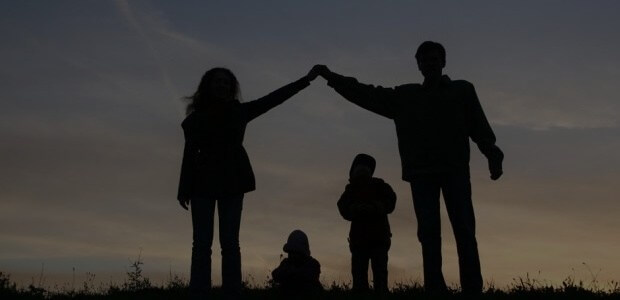
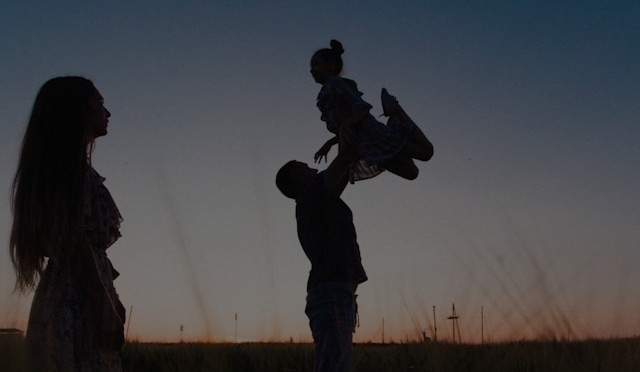
Add Responsiveness

diff --git a/css/layout/responsive.css b/css/layout/responsive.css
@@ -1,0 +1,91 @@
+@media (max-width: 1024px) {
+  .carousel-caption {
+    top: 40%;
+  }
+}
+@media (max-width: 900px) {
+  .nav__links {
+    opacity: 0;
+    align-items: center;
+    justify-content: center;
+    gap: var(--spacing-lg);
+    background-color: var(--color-light-blue);
+    position: absolute;
+    top: 100%;
+    left: 0;
+    width: 100%;
+    padding: var(--spacing-lg);
+    transition: max-height 0.4s ease, opacity 0.3s ease, padding 0.3s ease;
+  }
+
+  .nav__links.nav__links-active {
+    display: flex;
+    max-height: 12rem;
+    padding: var(--spacing-lg);
+    opacity: 1;
+  }
+
+  .burger-menu {
+    display: block;
+    cursor: pointer;
+    z-index: 100;
+  }
+  .nav__links .nav__link {
+    color: var(--color-primary);
+  }
+}
+
+@media (max-width: 768px) {
+  .carousel-caption h1 {
+    font-size: var(--font-size-xxl);
+  }
+  .blue-button {
+    font-size: var(--font-size-md);
+  }
+}
+@media (max-width: 540px) {
+  .header {
+    justify-content: space-between;
+    padding: var(--spacing-lg);
+  }
+  .header__logo {
+    display: none;
+  }
+  .header__features {
+    display: flex;
+    align-items: center;
+    flex: 1;
+    justify-content: flex-start;
+  }
+
+  .header__search {
+    display: flex;
+    align-items: center;
+    justify-content: flex-start;
+    width: 100%;
+  }
+
+  .header__search-input {
+    width: 100%;
+  }
+  .carousel-caption h1 {
+    font-size: var(--font-size-xl);
+  }
+  .carousel-caption p {
+    font-size: var(--font-size-lg);
+  }
+  .footer__input {
+    width: 20rem;
+  }
+}
+@media (max-width: 420px) {
+  .footer__form {
+    flex-direction: column;
+
+    gap: var(--spacing-xl);
+  }
+  .footer__input,
+  .footer__button {
+    width: 100%;
+  }
+}

diff --git a/index.html b/index.html
@@ -63,6 +63,7 @@
           </button>
         </div>
       </div>
+      <i class="fa-solid fa-bars burger-menu"></i>
     </header>
 
     <main class="main-container">
@@ -398,7 +399,11 @@
               <p class="event-card__desc">
                 Respectful techniques to guide toddler behavior with confidence.
               </p>
-              <button type="button" class="blue-button">Read more</button>
+              <div class="event-card-more-btn">
+                <a href="#"
+                  >Read more <i class="fa-solid fa-arrow-right"></i>
+                </a>
+              </div>
             </div>
           </div>
 
@@ -421,7 +426,11 @@
                 Engaging sensory activities that boost motor and cognitive
                 skills.
               </p>
-              <button type="button" class="blue-button">Read more</button>
+              <div class="event-card-more-btn">
+                <a href="#"
+                  >Read more <i class="fa-solid fa-arrow-right"></i>
+                </a>
+              </div>
             </div>
           </div>
 
@@ -444,7 +453,11 @@
               <p class="event-card__desc">
                 How to emotionally and socially prepare toddlers for preschool.
               </p>
-              <button type="button" class="blue-button">Read more</button>
+              <div class="event-card-more-btn">
+                <a href="#"
+                  >Read more <i class="fa-solid fa-arrow-right"></i>
+                </a>
+              </div>
             </div>
           </div>
         </div>

diff --git a/css/layout/header.css b/css/layout/header.css
@@ -23,19 +23,14 @@
   cursor: pointer;
 }
 
-.header__features {
-  display: flex;
-  justify-content: space-around;
-  align-items: center;
-  gap: var(--spacing-lg);
-}
-
 .header__search {
   position: relative;
   width: 100%;
-  max-width: 20rem;
-  font-size: var(--font-size-lg);
+  max-width: 16rem;
+  font-size: var(--font-size-md);
   font-style: italic;
+  border: 2px solid var(--color-primary);
+  border-radius: var(--radius-sm);
 }
 
 .header__search-input {
@@ -46,11 +41,13 @@
   border-radius: var(--radius-sm);
   color: var(--color-primary);
   font-style: italic;
+  font-weight: var(--font-weight-medium);
 }
 
 .header__search-input::placeholder {
   color: var(--color-primary);
   font-style: italic;
+  font-weight: var(--font-weight-medium);
 }
 
 .header__search-input:focus {
@@ -80,6 +77,7 @@
   align-items: center;
   gap: var(--spacing-lg);
   list-style: none;
+  text-decoration: none;
 }
 
 .nav__link {
@@ -95,4 +93,8 @@
 .nav__link:hover {
   transform: scale(1.05);
   font-weight: var(--font-weight-bold);
+}
+.burger-menu {
+  font-size: var(--font-size-xxx);
+  display: none;
 }

diff --git a/js/header.js b/js/header.js
@@ -1,17 +1,24 @@
 export const scrollHeader = () => {
   const header = document.querySelector(".header");
   const headerText = header.querySelectorAll(".nav__link");
+  const burgerMenu = document.querySelector(".burger-menu");
 
   const changeBackground = () => {
     if (window.scrollY > 80) {
       header.style.backgroundColor = "#d1ecfe";
       headerText.forEach((element) => {
         element.style.color = "#0d6efd";
+        if (burgerMenu) {
+          burgerMenu.style.color = "#0d6efd";
+        }
       });
     } else {
       header.style.backgroundColor = "#0d6efd";
       headerText.forEach((element) => {
         element.style.color = "#ffffff";
+        if (burgerMenu) {
+          burgerMenu.style.color = "#ffffff";
+        }
       });
     }
   };

diff --git a/css/layout/events.css b/css/layout/events.css
@@ -23,7 +23,9 @@
   border-radius: var(--radius-sm);
   object-fit: cover;
 }
-
+.event-card-more-btn {
+  font-size: var(--font-size-lg);
+}
 .event-card__content {
   display: flex;
   flex-direction: column;
@@ -41,9 +43,7 @@
   color: var(--color-dark);
   font-style: italic;
 }
-.event-card__content button {
-  width: 40%;
-}
+
 .event-card__date {
   font-size: var(--font-size-lg);
   color: var(--color-dark);

diff --git a/css/layout/hero.css b/css/layout/hero.css
@@ -1,17 +1,12 @@
-.carousel-inner {
-  width: 100%;
-  height: 70vh;
-}
-
 .carousel-item {
   position: relative;
-  height: 100vh;
 }
 
 .carousel-item img {
-  background-size: cover;
-  background-position: center;
-
+  width: 100%;
+  height: 70vh;
+  object-fit: cover;
+  object-position: center;
   border-radius: var(--radius-lg);
 }
 

diff --git a/js/burgerMenu.js b/js/burgerMenu.js
@@ -1,0 +1,8 @@
+export const renderBurgerMenu = () => {
+  const burgerMenu = document.querySelector(".burger-menu");
+  burgerMenu.addEventListener("click", () => {
+    const navbar = document.querySelector(".nav__links");
+    navbar.classList.toggle("nav__links-active");
+  });
+};
+renderBurgerMenu();

diff --git a/js/script.js b/js/script.js
@@ -3,3 +3,4 @@ import { renderCard } from "./renderCards.js";
 import { renderAnimations } from "./animations.js";
 import { swiper } from "./swiper.js";
 import { handleSearch } from "./renderCards.js";
+import { renderBurgerMenu } from "./burgerMenu.js";

diff --git a/css/layout/milestones.css b/css/layout/milestones.css
@@ -122,6 +122,7 @@
   font-size: var(--font-size-xl);
   text-align: center;
   font-weight: var(--font-weight-medium);
+  margin-top: var(--spacing-lg);
 }
 @media (max-width: 768px) {
   .milestones-section__cards {

diff --git a/css/general.css b/css/general.css
@@ -29,7 +29,7 @@
   --font-size-xl: 2rem;
   --font-size-xxl: 3rem;
   --font-size-xxx: 4rem;
-  --font-size-4x: 4.8rem;
+
 
   /* Font Weights */
   --font-weight-medium: 600;

diff --git a/css/styles.css b/css/styles.css
@@ -6,3 +6,4 @@
 @import url("./layout/events.css");
 @import url("./layout/resources.css");
 @import url("./layout/footer.css");
+@import url('./layout/responsive.css');
